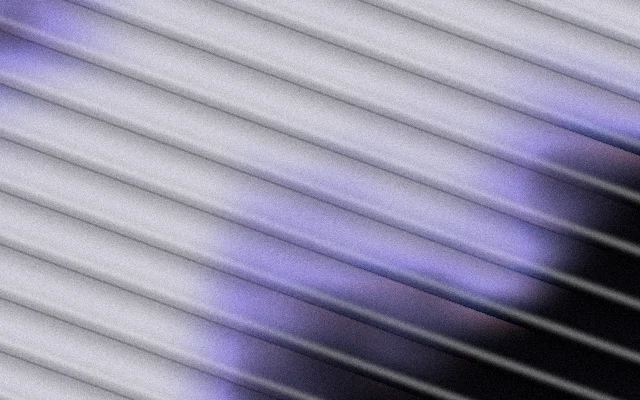
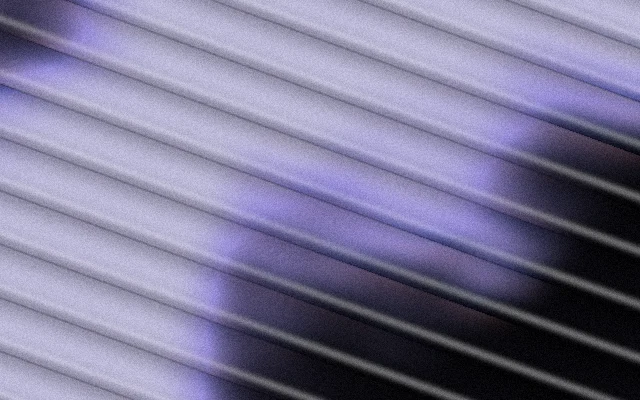
fix(shaders): keep Chroma Flow, Mosaic and Chrome Glares contrasty with light palettes

diff --git a/src/lib/originalMaterialShaders.ts b/src/lib/originalMaterialShaders.ts
@@ -548,7 +548,7 @@ void main() {
 vec3 chromaField(vec2 p, float time) {
   vec2 q = warp(p * 0.5, time, 0.7 + u_strength * 1.3, 3);
   float band = 0.5 + 0.5 * sin(q.y * (1.4 + u_detail * 0.2) + q.x * 0.9 + time * 1.2);
-  return ramp(smoothstep(0.05, 0.95, band));
+  return ramp(pow(smoothstep(0.05, 0.95, band), 1.6) * 0.85);
 }
 
 void main() {
@@ -607,7 +607,7 @@ void main() {
   float time = u_time * 0.2;
   float swirl = fbm(vec3(p * (0.6 + u_detail * 0.1), time), 4);
   float tone = 0.5 + 0.5 * sin((p.x + p.y + swirl * (1.5 + u_strength * 3.0)) * (0.6 + u_frequency * 0.15) + time * 2.0);
-  vec3 glass = ramp(smoothstep(0.08, 0.92, tone));
+  vec3 glass = ramp(pow(smoothstep(0.08, 0.92, tone), 1.5) * 0.88);
 
   vec2 edge = abs(local - 0.5);
   float pixelWidth = fwidth(reference.x);
@@ -674,7 +674,7 @@ void main() {
 vec3 glareEnvironment(vec3 direction, vec2 p, float time) {
   float y = direction.y + p.y * 0.22;
   float x = direction.x;
-  vec3 environment = mix(mix(vec3(0.004), u_color_a, 0.3), mix(vec3(0.5), u_color_b, 0.3), smoothstep(-0.7, 0.8, y));
+  vec3 environment = mix(mix(vec3(0.002), u_color_a, 0.3), mix(vec3(0.22), u_color_b, 0.35), smoothstep(-0.7, 0.8, y));
   float sweep = sin(time * 0.6) * 0.35;
   float cardA = exp(-pow((y - 0.32 - sweep) / 0.06, 2.0));
   float cardB = exp(-pow((y + 0.2 - sweep * 0.6) / 0.035, 2.0));
@@ -682,8 +682,9 @@ vec3 glareEnvironment(vec3 direction, vec2 p, float time) {
   float glare = exp(-pow((x + y * 0.4 - 0.3 + sweep) / 0.08, 2.0));
   float dark = exp(-pow((y - 0.05) / 0.1, 2.0));
   environment *= 1.0 - dark * 0.85;
-  environment += (cardA * 2.6 + cardB * 2.2 + cardC) * mix(vec3(1.0), u_color_c, 0.18);
-  environment += glare * mix(vec3(1.0), u_color_c, 0.35) * 1.8;
+  float cardD = exp(-pow((x * 0.8 - y * 0.3 + 0.45 - sweep * 0.5) / 0.03, 2.0));
+  environment += (cardA * 3.0 + cardB * 2.6 + cardC + cardD * 2.2) * mix(vec3(1.0), u_color_c, 0.18);
+  environment += glare * mix(vec3(1.0), u_color_b, 0.35) * 2.2;
   return environment;
 }
 
